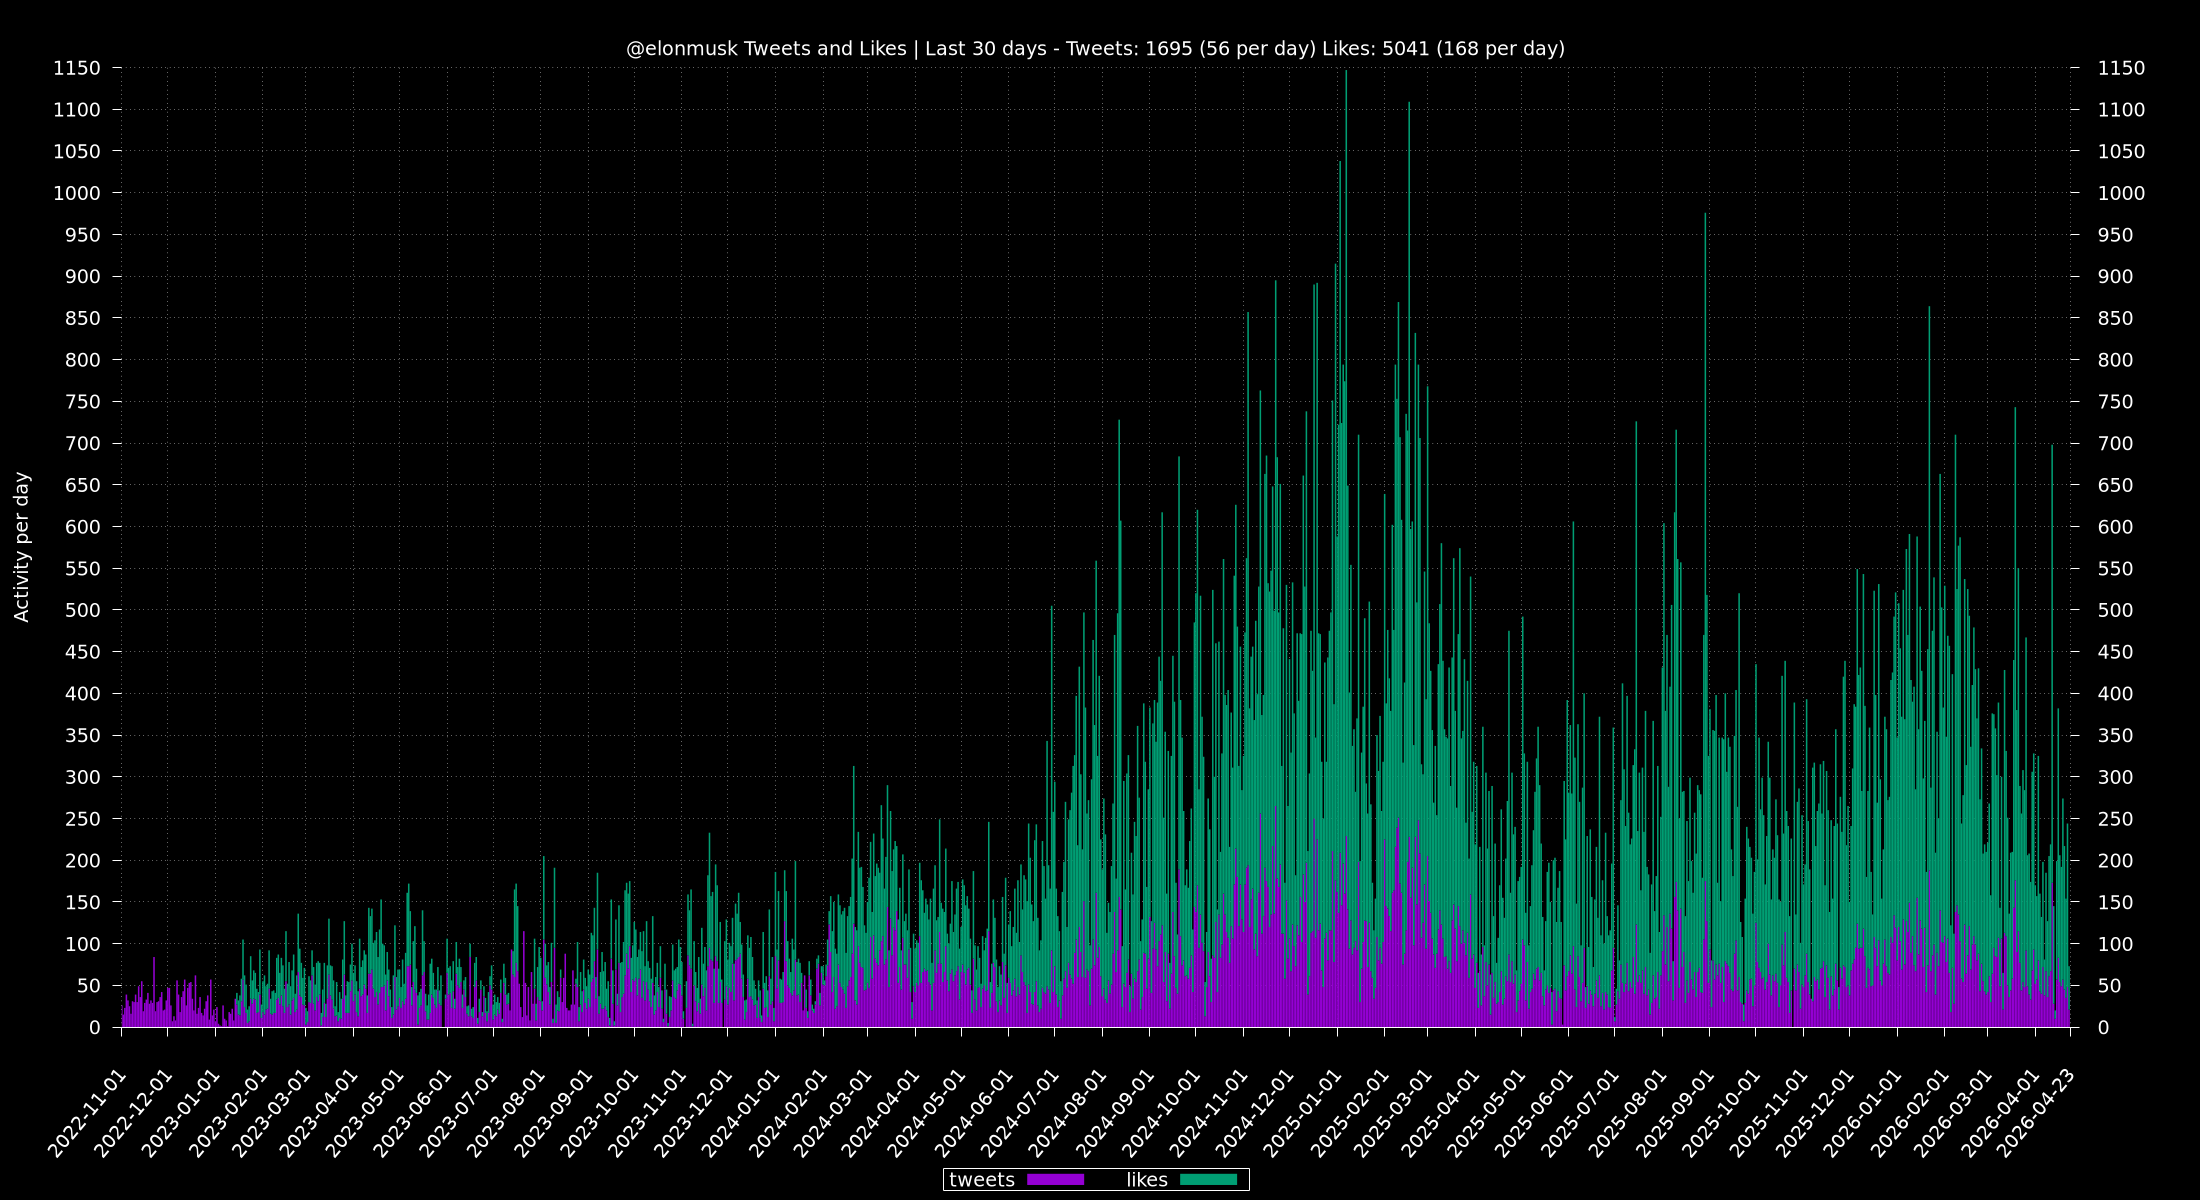
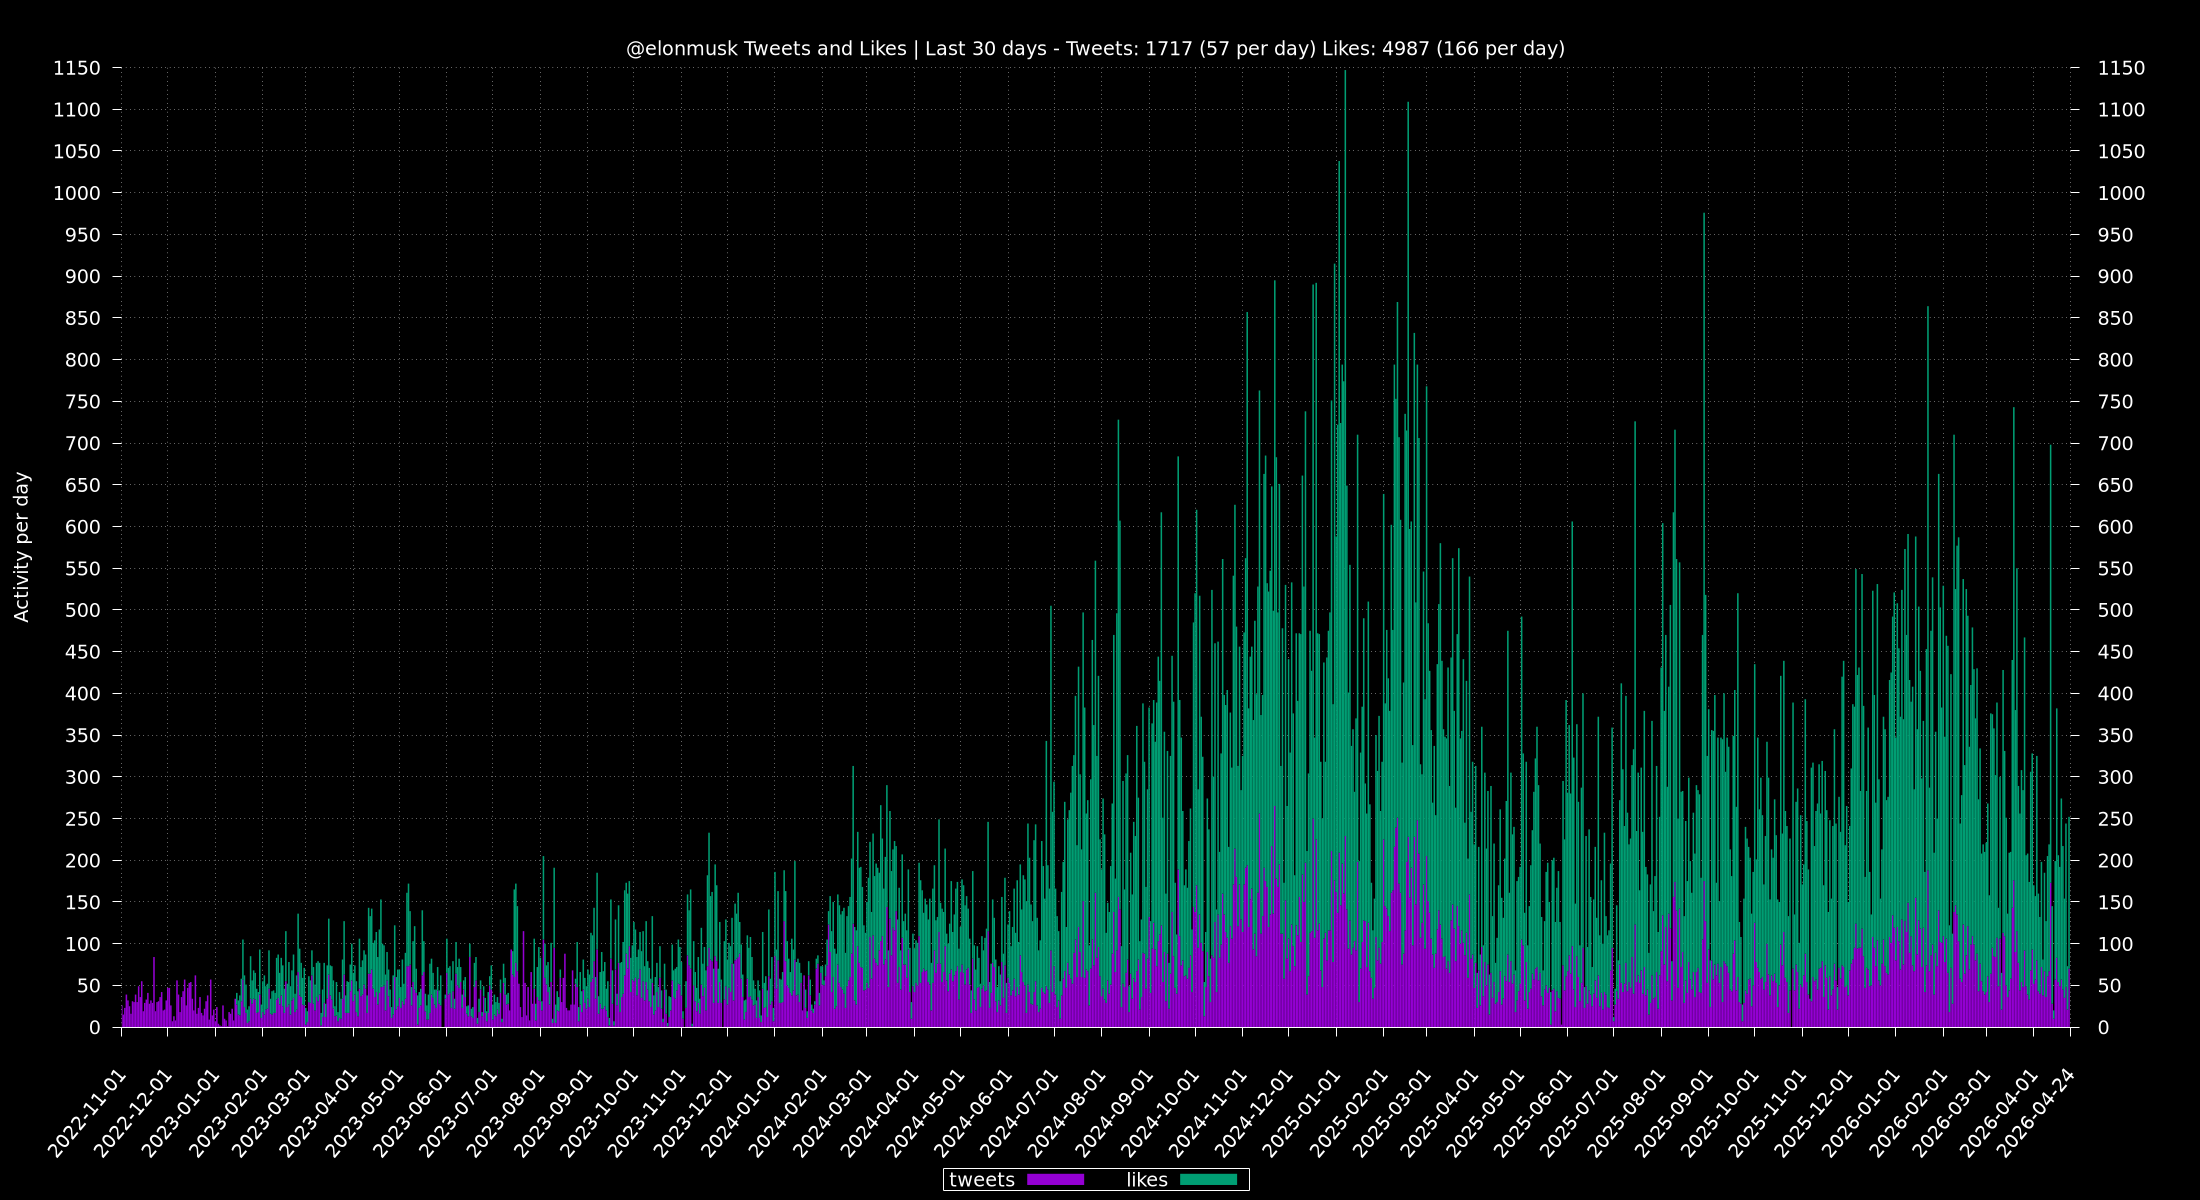
update via cron

diff --git a/totals/README.md b/totals/README.md
@@ -1,6 +1,6 @@
 ## Last 30 Days
-Tweets: 1749 (56 per day)\
-Likes: 5295 (171 per day)
+Tweets: 1765 (57 per day)\
+Likes: 5223 (168 per day)
 
 ## 24 Hours
 Max: [**341**](../misc/most-tweets_24-hr.csv) - From `2024-11-23 14:29:53 CST` To `2024-11-24 14:28:44 CST`